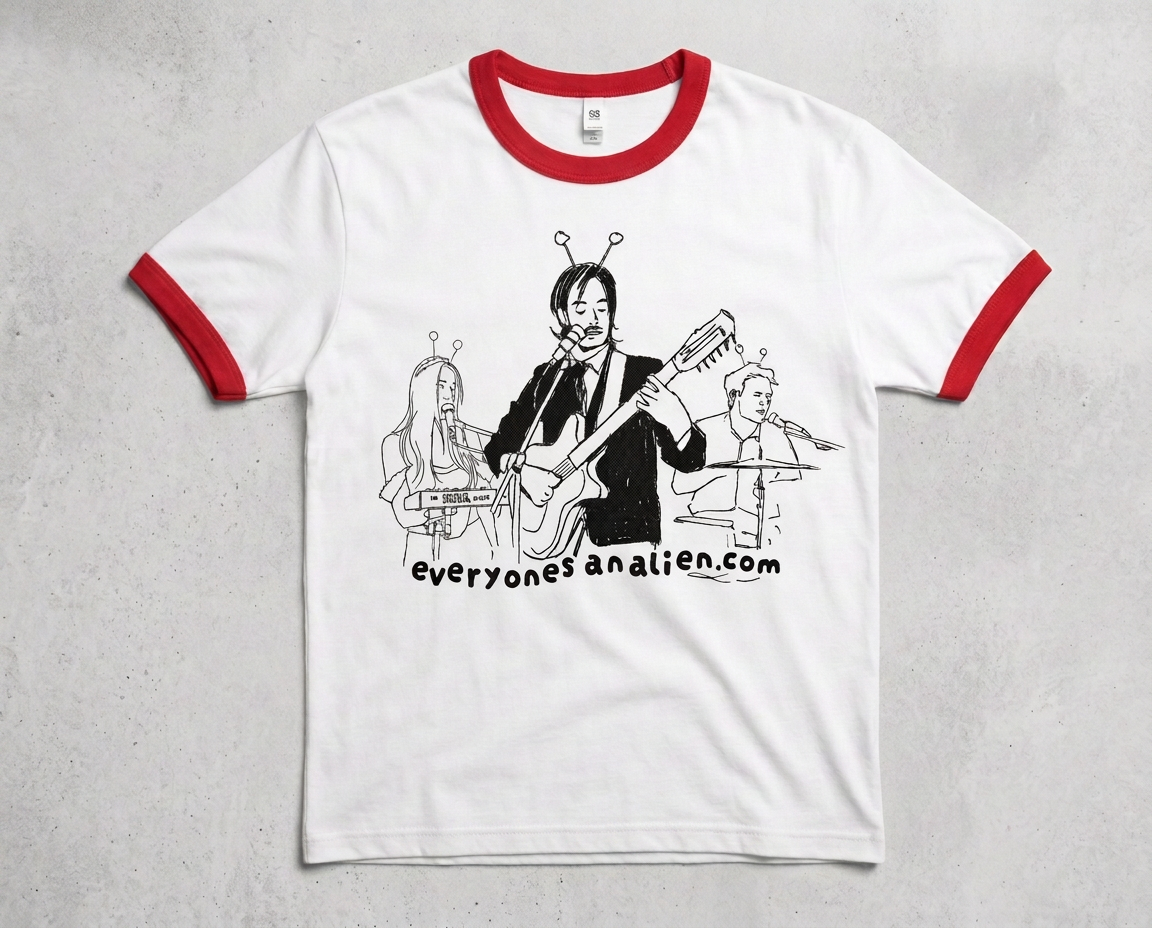
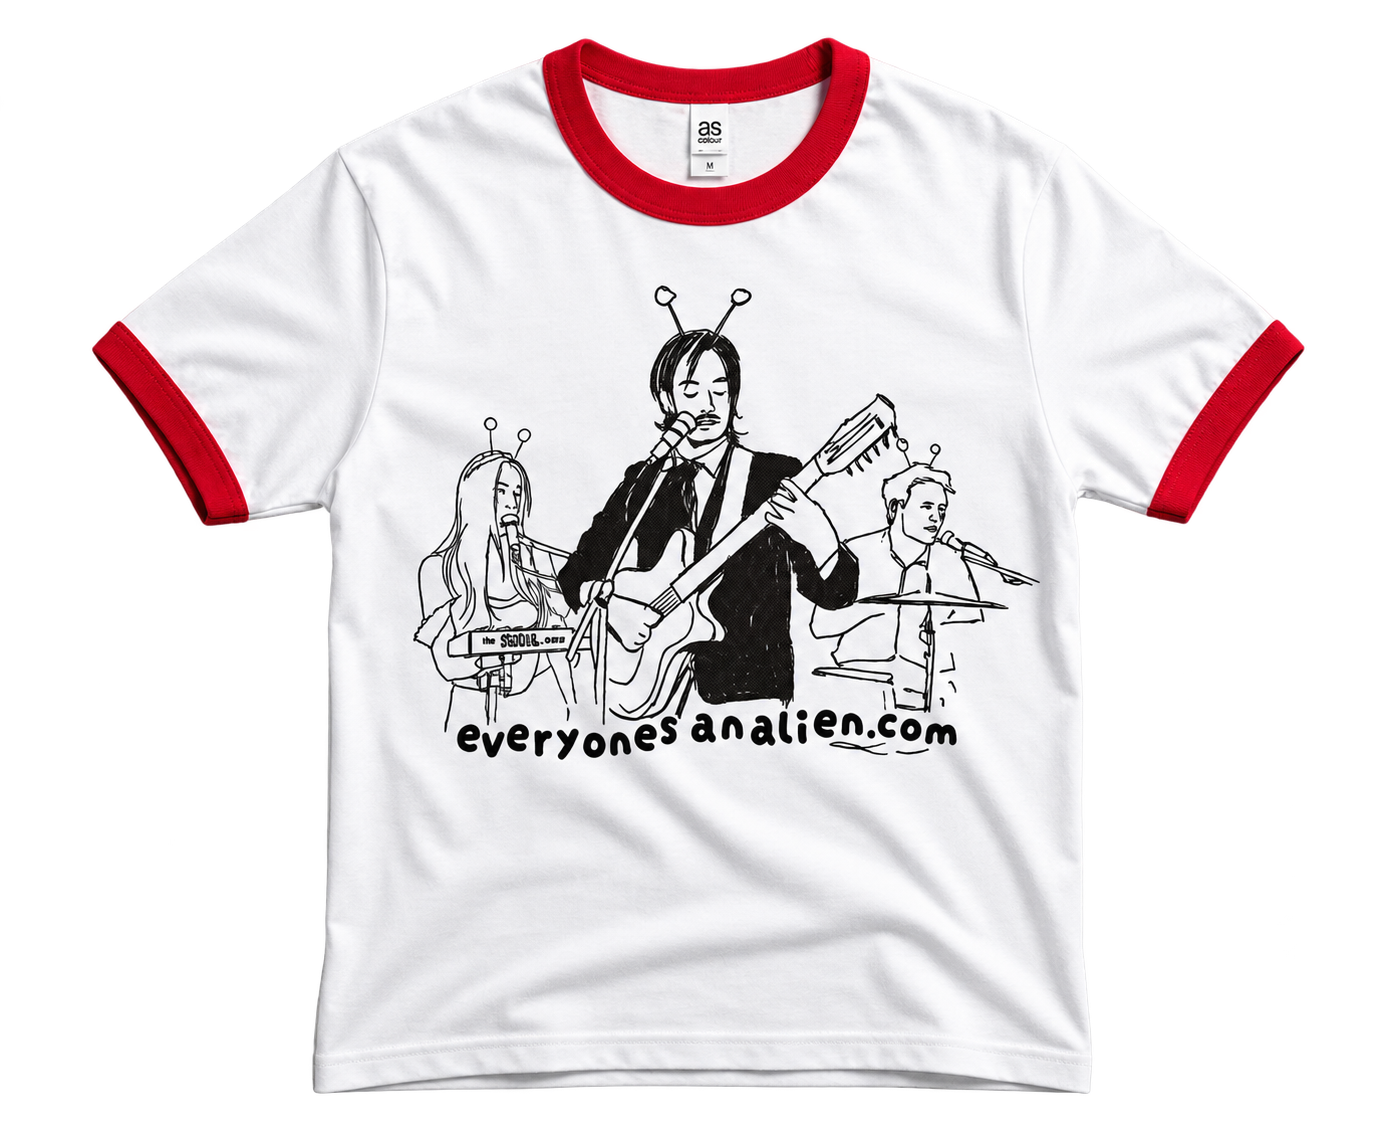
Refine Ringer Tee merch interaction

diff --git a/components/home/CanonicalHomepage.tsx b/components/home/CanonicalHomepage.tsx
@@ -1,7 +1,7 @@
 "use client";
 import Image from 'next/image';
 import ringerTee from '@/public/soul-ringer-tee.png';
-import { useRef } from 'react';
+import { useId, useRef, type CSSProperties } from 'react';
 import MatePanel from '@/components/mate/MatePanel';
 import { useDomeProjection } from './useDomeProjection';
 import RealPlanetHeart from './RealPlanetHeart';
@@ -18,12 +18,25 @@ import {
 } from "react-icons/fa";
 
 export default function CanonicalHomepage({ cockpit, loginEnabled, config, view, animateEntry = false, camera = config, progress = cockpit ? 1 : 0, mobileThird=false, publicFrame }: { cockpit: boolean; loginEnabled: boolean; config: DomeConfig; view: Viewport; animateEntry?: boolean; camera?: DomeConfig; progress?: number; mobileThird?:boolean; publicFrame?:{view:Viewport;angle:number} }) {
+ const teeOutlineId=useId();
  const homeRoot = useRef<HTMLDivElement>(null);
  // Blend the live header toward the final dome frame. The travelling eye crosses
  // that surface near its start; projecting through it would fling the header offscreen.
  useDomeProjection(homeRoot, cockpit, config, view, animateEntry, config, progress, mobileThird);
  return <div ref={homeRoot} className="canonical-home" data-dome-narrow={view.width<760 || undefined} data-returning={!cockpit && progress>0 ? "true" : undefined}>
  <ExteriorSpace config={config} camera={camera} view={view} />
+ <svg width="0" height="0" aria-hidden="true" style={{position:'absolute',pointerEvents:'none'}}>
+  <defs>
+   <filter id={teeOutlineId} x="-100%" y="-100%" width="300%" height="300%" colorInterpolationFilters="sRGB">
+    <feGaussianBlur in="SourceAlpha" stdDeviation="2.5" result="softSilhouette" />
+    <feComponentTransfer in="softSilhouette" result="expanded"><feFuncA type="linear" slope="12" intercept="-1.5" /></feComponentTransfer>
+    <feComposite in="expanded" in2="SourceAlpha" operator="out" result="edge" />
+    <feFlood floodColor="#6ee7b7" result="mint" />
+    <feComposite in="mint" in2="edge" operator="in" result="outline" />
+    <feMerge><feMergeNode in="outline" /><feMergeNode in="SourceGraphic" /></feMerge>
+   </filter>
+  </defs>
+ </svg>
  <main className="pink-text-glow min-h-screen text-white p-8 md:p-12 max-w-12xl mx-auto">
         <div data-dome-slot="socials" className="flex flex-nowrap justify-center gap-10 sm:gap-10 mb-0 md:mb-4">
           <a
@@ -121,7 +134,7 @@ export default function CanonicalHomepage({ cockpit, loginEnabled, config, view,
           <section data-dome-slot="merch" className="md:col-start-3 md:max-w-sm md:mx-auto">
             <h2 className="text-2xl mb-4">THE MERCH</h2>
 
-            <a href="https://square.link/u/lXbPiLpe" target="_blank" rel="noopener noreferrer" aria-label="Shop the SOUL Ringer Tee (opens in a new tab)" className="inline-block ringer-tee-display">
+            <a href="https://square.link/u/lXbPiLpe" target="_blank" rel="noopener noreferrer" aria-label="Shop the SOUL Ringer Tee (opens in a new tab)" className="inline-block ringer-tee-display cockpit-interactive-fixture" aria-disabled="false" style={{"--fixture-hover-filter":`url(#${teeOutlineId})`} as CSSProperties}>
               <Image src={ringerTee} alt="SOUL Ringer Tee" width={180} className="h-auto max-w-full" />
             </a>
 

diff --git a/components/mate/mate.css b/components/mate/mate.css
@@ -116,7 +116,7 @@
 /* Both fixtures share the same silhouette filter, scale and press behaviour. */
 .cockpit-interactive-fixture { cursor:pointer; transform-box:fill-box; transform-origin:center; transition:transform 120ms ease; }
 .cockpit-interactive-fixture[aria-disabled="false"]:is(:hover,:focus-visible) { transform:scale(1.25); filter:var(--fixture-hover-filter); outline:none; }
-.cockpit-interactive-fixture[data-pressed] { transform:scale(.9) !important; filter:none !important; outline:none; }
+.cockpit-interactive-fixture[data-pressed], .ringer-tee-display:active { transform:scale(.9) !important; filter:none !important; outline:none; }
 /* The live screen follows the TV's SVG body, using the same screen-centre pivot. */
 .public-tv-frame .space-tv[data-console]:not(.space-tv-expanded) { pointer-events:none; }
 .space-tv[data-console]:not(.space-tv-expanded) .space-tv-body { transition:transform 120ms ease; }
@@ -150,7 +150,5 @@ button.object-back:focus-visible { text-decoration:none; }
 .on-glass [data-dome-slot="socials"] > a { z-index:20; pointer-events:auto; }
 .on-glass [data-dome-slot="socials"] > a:is(:hover,:active,:focus-visible) { color:#6ee7b7; }
 
-/* Outside-only framing leaves the product image's current dimensions intact. */
-.ringer-tee-display { border-radius:3px; box-shadow:0 0 0 1px rgba(255,255,255,.65),0 0 8px rgba(255,176,255,.22); }
-.ringer-tee-display img { border-radius:3px; }
-.ringer-tee-display:is(:hover,:focus-visible) { outline:none; box-shadow:0 0 0 1px #6ee7b7,0 0 10px rgba(110,231,183,.28); }
+/* Reuse the cockpit silhouette treatment without a resting frame. */
+.ringer-tee-display { transform-origin:center; vertical-align:top; }
